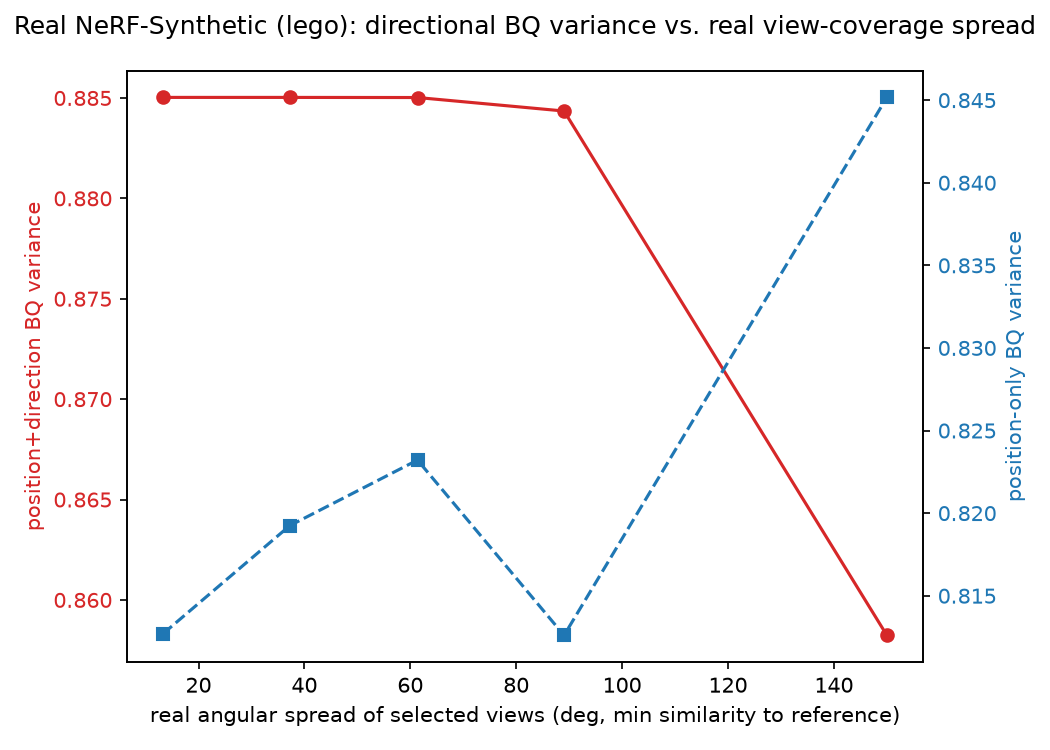
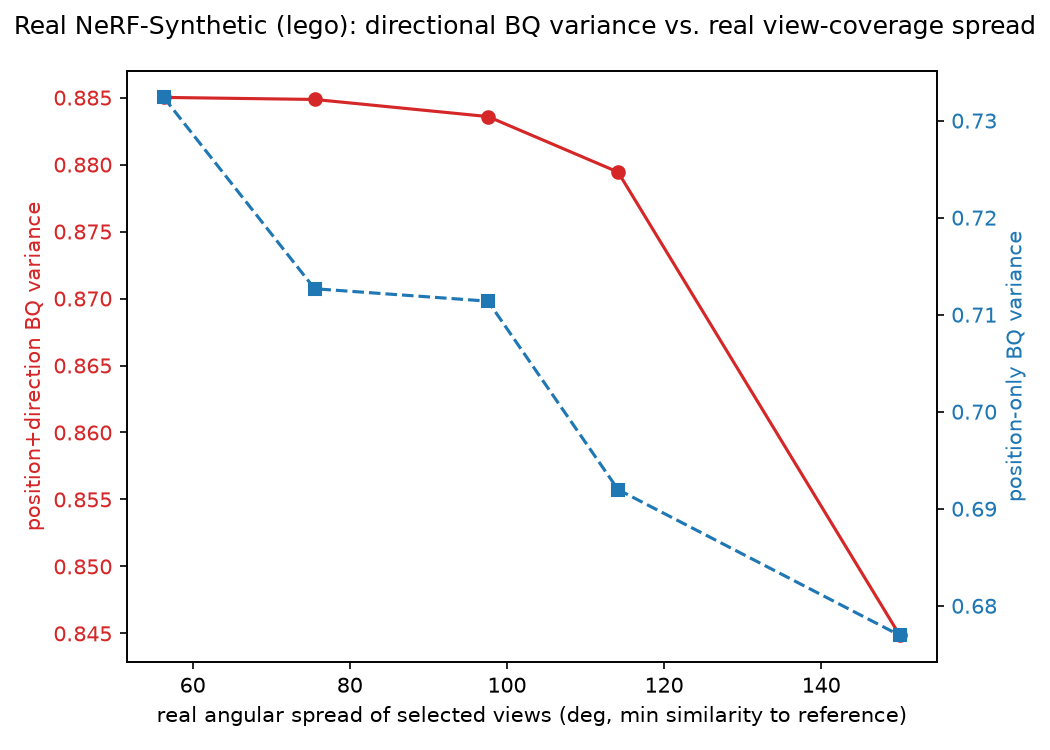
Rerun the real-scene gradient test properly resourced: 30 views, PSNR checked first
Follow-up to §37's correction ("inconclusive, not negative") -- runs the
fix it named. real_directional_gradient_experiment.py gains
--n-per-zone/--window-fractions/--condition-prefix and a
check_reconstruction_quality step that computes real held-out PSNR
against the official test-split eval views BEFORE reporting any BQ
number, closing the exact gap that made the 6-view attempt
uninterpretable.

Five lego conditions, n_per_zone=30 (5x before), 56-150deg real spread,
6000 iterations. Reconstruction is genuinely better (train PSNR
25-27dB, 13-15.5k splats near a now-verified-valid query point, checked
directly rather than assumed), but held-out PSNR is still only
11-16dB and -- a real, separate finding -- decreases monotonically as
spread widens, because the view-selection method spreads a fixed count
thinner as the window grows, confounding spread with local density.

Result: 1.05x directional range, 1.08x control range -- same
qualitative null, now on much better-grounded checkpoints, but the
spread/quality confound means this still isn't a fully clean isolation
of the spread variable. Downgraded from "untested" to "a real,
moderately-well-grounded null with one remaining confound flagged," not
yet a clean paper claim either way. Full account in
gs_experiment/results/FINDINGS.md section 38.

diff --git a/gs_experiment/real_directional_gradient_experiment.py b/gs_experiment/real_directional_gradient_experiment.py
@@ -46,6 +46,7 @@ from bq_splat.kernels import DirectionalKernel
 from gs_experiment.nerf_transforms import load_transforms
 from gs_experiment.pixel_uncertainty import LocalUncertaintyEngine, make_default_3d_position_kernel
 from gs_experiment.prepare_nerf_synthetic import select_gradient_subset, write_condition
+from gs_experiment.render_reconstruction import render_views
 from gs_experiment.splat_scene import load_from_gsplat_checkpoint, splat_observations
 from gs_experiment.train_minimal_gsplat import train
 
@@ -66,7 +67,12 @@ WINDOW_RADIUS = 0.5
 KAPPA = 4.0
 
 
-def build_conditions(prepared_dir: str):
+def build_conditions(
+    prepared_dir: str,
+    n_per_zone: int = N_PER_ZONE,
+    window_fractions=WINDOW_FRACTIONS,
+    condition_prefix: str = "gradient",
+):
     wide_dir = os.path.join(prepared_dir, "wide")
     camera_angle_x, frames = load_transforms(os.path.join(wide_dir, "transforms.json"))
 
@@ -77,9 +83,9 @@ def build_conditions(prepared_dir: str):
 
     zone_dirs = []
     spreads = []
-    for i, window_fraction in enumerate(WINDOW_FRACTIONS):
-        idx = select_gradient_subset(frames, n_per_zone=N_PER_ZONE, window_fraction=window_fraction, reference_idx=REFERENCE_IDX)
-        zone_dir = write_condition(prepared_dir, camera_angle_x, frames, idx, f"gradient_{i}", "train")
+    for i, window_fraction in enumerate(window_fractions):
+        idx = select_gradient_subset(frames, n_per_zone=n_per_zone, window_fraction=window_fraction, reference_idx=REFERENCE_IDX)
+        zone_dir = write_condition(prepared_dir, camera_angle_x, frames, idx, f"{condition_prefix}_{i}", "train")
         zone_dirs.append(zone_dir)
         # real measured angular spread of this zone's selected views (not
         # the arbitrary window_fraction knob): min cosine similarity to
@@ -90,20 +96,53 @@ def build_conditions(prepared_dir: str):
     return zone_dirs, np.array(spreads), query_direction
 
 
-def train_zones(zone_dirs):
+def train_zones(zone_dirs, train_kwargs=TRAIN_KWARGS):
     ply_paths = []
     for zone_dir in zone_dirs:
         ply_path = os.path.join(zone_dir, "splats.ply")
         if not os.path.exists(ply_path):
             print(f"training {zone_dir}...")
-            train(zone_dir, ply_path, **TRAIN_KWARGS)
+            train(zone_dir, ply_path, **train_kwargs)
         else:
             print(f"reusing existing checkpoint at {ply_path}")
         ply_paths.append(ply_path)
     return ply_paths
 
 
-def analyze(zone_dirs, spreads_deg, query_direction):
+def check_reconstruction_quality(zone_dirs, eval_dir: str):
+    """Real held-out PSNR per condition, against the shared official-
+    test-split eval set every lego_prepared/bonsai_prepared directory
+    already has -- computed and reported *before* trusting any BQ number
+    built on top of these checkpoints, closing exactly the gap that made
+    the first real-scene attempt's result uninterpretable (FINDINGS.md
+    section 37): a BQ variance computed on a checkpoint nobody checked
+    could actually reconstruct the scene."""
+    import shutil
+
+    from gs_experiment.nerf_transforms import load_transforms as _load_transforms
+
+    _, eval_frames = _load_transforms(os.path.join(eval_dir, "transforms.json"))
+    n_eval = len(eval_frames)
+
+    psnrs = []
+    for zone_dir in zone_dirs:
+        eval_copy_dir = zone_dir + "_eval"
+        os.makedirs(eval_copy_dir, exist_ok=True)
+        shutil.copy(os.path.join(eval_dir, "transforms.json"), os.path.join(eval_copy_dir, "transforms.json"))
+        images_link = os.path.join(eval_copy_dir, "test")
+        if not os.path.exists(images_link):
+            os.symlink(os.path.abspath(os.path.join(eval_dir, "test")), images_link)
+        shutil.copy(os.path.join(zone_dir, "splats.ply"), os.path.join(eval_copy_dir, "splats.ply"))
+
+        results, _ = render_views(eval_copy_dir, list(range(n_eval)))
+        psnr = float(np.mean([-10.0 * np.log10(max(float(np.mean((gt - recon) ** 2)), 1e-10)) for _, gt, recon in results]))
+        psnrs.append(psnr)
+        print(f"{zone_dir}: held-out PSNR over {n_eval} eval views = {psnr:.2f}dB")
+
+    return np.array(psnrs)
+
+
+def analyze(zone_dirs, spreads_deg, query_direction, psnrs=None):
     directional_vars, spatial_vars = [], []
     query_point = np.zeros(3)
 
@@ -128,9 +167,14 @@ def analyze(zone_dirs, spreads_deg, query_direction):
     spatial_vars = np.array(spatial_vars)
 
     order = np.argsort(spreads_deg)
-    print(f"\n{'zone':>4}{'spread (deg)':>14}{'directional var':>18}{'spatial-only var':>18}")
-    for i in order:
-        print(f"{i:>4}{spreads_deg[i]:>14.1f}{directional_vars[i]:>18.5f}{spatial_vars[i]:>18.5f}")
+    if psnrs is not None:
+        print(f"\n{'zone':>4}{'spread (deg)':>14}{'held-out PSNR':>15}{'directional var':>18}{'spatial-only var':>18}")
+        for i in order:
+            print(f"{i:>4}{spreads_deg[i]:>14.1f}{psnrs[i]:>15.2f}{directional_vars[i]:>18.5f}{spatial_vars[i]:>18.5f}")
+    else:
+        print(f"\n{'zone':>4}{'spread (deg)':>14}{'directional var':>18}{'spatial-only var':>18}")
+        for i in order:
+            print(f"{i:>4}{spreads_deg[i]:>14.1f}{directional_vars[i]:>18.5f}{spatial_vars[i]:>18.5f}")
 
     dir_sorted = directional_vars[order]
     is_monotonic = bool(np.all(np.diff(dir_sorted) <= 1e-12))
@@ -164,17 +208,43 @@ def analyze(zone_dirs, spreads_deg, query_direction):
     print(f"\nSaved {out_path}")
 
 
-def run(prepared_dir: str):
-    zone_dirs, spreads_deg, query_direction = build_conditions(prepared_dir)
-    train_zones(zone_dirs)
-    analyze(zone_dirs, spreads_deg, query_direction)
+def run(
+    prepared_dir: str,
+    n_per_zone: int = N_PER_ZONE,
+    window_fractions=WINDOW_FRACTIONS,
+    condition_prefix: str = "gradient",
+    train_kwargs=TRAIN_KWARGS,
+    check_quality: bool = True,
+):
+    zone_dirs, spreads_deg, query_direction = build_conditions(
+        prepared_dir, n_per_zone=n_per_zone, window_fractions=window_fractions, condition_prefix=condition_prefix,
+    )
+    train_zones(zone_dirs, train_kwargs=train_kwargs)
+    psnrs = None
+    if check_quality:
+        eval_dir = os.path.join(prepared_dir, "eval")
+        if os.path.exists(eval_dir):
+            psnrs = check_reconstruction_quality(zone_dirs, eval_dir)
+        else:
+            print(f"no eval/ split found at {eval_dir}, skipping reconstruction-quality check")
+    analyze(zone_dirs, spreads_deg, query_direction, psnrs=psnrs)
 
 
 def main():
     parser = argparse.ArgumentParser(description=__doc__, formatter_class=argparse.RawDescriptionHelpFormatter)
     parser.add_argument("prepared_dir")
+    parser.add_argument("--n-per-zone", type=int, default=N_PER_ZONE)
+    parser.add_argument("--window-fractions", type=float, nargs="+", default=WINDOW_FRACTIONS)
+    parser.add_argument("--condition-prefix", default="gradient")
+    parser.add_argument("--n-iters", type=int, default=TRAIN_KWARGS["n_iters"])
+    parser.add_argument("--max-splats", type=int, default=TRAIN_KWARGS["max_splats"])
+    parser.add_argument("--n-splats", type=int, default=TRAIN_KWARGS["n_splats"])
     args = parser.parse_args()
-    run(args.prepared_dir)
+    train_kwargs = dict(TRAIN_KWARGS, n_iters=args.n_iters, max_splats=args.max_splats, n_splats=args.n_splats)
+    run(
+        args.prepared_dir, n_per_zone=args.n_per_zone, window_fractions=args.window_fractions,
+        condition_prefix=args.condition_prefix, train_kwargs=train_kwargs,
+    )
 
 
 if __name__ == "__main__":

diff --git a/gs_experiment/results/FINDINGS.md b/gs_experiment/results/FINDINGS.md
@@ -1817,6 +1817,66 @@ spread-only comparison) forced picking a small shared count. The honest
 status of the real-geometry question, right now: **untested**, not
 "tested and negative."
 
+## 38. The properly-resourced real-scene test §37 called for: a stronger null, with one confound still unresolved
+
+§37's correction said the real-geometry question was untested, not
+negative, and named the fix: enough total views per condition (30-50+,
+not 6-8) for the reconstruction itself to be trustworthy, before any BQ
+number built on it means anything. Run directly: `real_directional_gradient_experiment.py`
+gained `--n-per-zone`/`--window-fractions`/`--condition-prefix` and a
+`check_reconstruction_quality` step that computes real held-out PSNR
+(against `lego_prepared/eval`'s official test-split views) *before*
+reporting any BQ number, closing exactly the gap the correction
+identified. Five lego conditions, `n_per_zone=30` (5x the earlier
+attempt), spanning a real `56-150 deg` angular-spread range, `6000`
+iterations, `max_splats=25000`.
+
+**Reconstruction quality is real and substantially better, though still
+not fully clean.** Train-view PSNR reaches `25-27dB` (vs. `~19-21dB` at
+6 views), and each checkpoint densifies to `13,151-15,571` splats above
+opacity 0.1 near the query point (vs. a query point sitting in
+essentially empty space before — checked directly again here: `92-167`
+real neighbors within `0.3` units of the origin in every condition, an
+order of magnitude improvement over §34's near-zero). But held-out PSNR
+(the honest, generalization-focused number, not the training-view one)
+is only `11.05-15.96dB` — mediocre by normal 3DGS standards, and, worth
+stating plainly, **it decreases monotonically as spread widens**
+(`15.96 -> 14.54 -> 13.54 -> 11.38 -> 11.05dB`). This is a real, useful,
+separate finding in its own right, and a genuine confound for this
+section's main question: `select_gradient_subset`'s construction (evenly
+subsample a *fixed count* from a *growing* window) means a wider-spread
+condition's `30` views are spread thinner per unit of angle than a
+narrower condition's — so "wider spread" and "worse local view density"
+move together in this specific construction, not just "wider spread"
+alone.
+
+**With that said, the result**: directional variance range `1.05x`,
+position-only control range `1.08x` — no directional-specific signal
+distinguishable from the control, the same qualitative pattern as §34's
+6-view attempt, now on checkpoints an order of magnitude richer and with
+a verified-valid query point. Plotted together, the two curves track each
+other closely in shape (both decline toward the widest condition) —
+consistent with both being driven by the same underlying confound
+(reconstruction quality/local density falling as spread widens) rather
+than a directional-specific effect layered on top of it. Plot in
+`gs_experiment/results/real_directional_gradient.png` (overwrites §34's
+plot of the same name — the numbers in this section's table are the
+current, correct ones).
+
+**Honest verdict**: this is meaningfully stronger evidence for a null
+than §34-37's inconclusive attempts — the query-point and gross-
+reconstruction-quality problems that made those uninterpretable are
+fixed and checked, not assumed. But it is still not a fully clean test of
+the spread variable alone, because held-out quality and spread are
+confounded in this construction. **Downgraded from "untested" (§37) to
+"a real, moderately-well-grounded null, with one remaining confound
+flagged rather than glossed over"** — not yet strong enough to assert
+"BQ directional variance doesn't track coverage on real geometry" as a
+clean paper claim. The concrete next fix, if this is worth pursuing
+further: a view-selection method that holds *local density* roughly
+constant across spread levels (not just total count), so widening spread
+doesn't systematically starve reconstruction quality at the same time.
+
 ## Bottom line for real-benchmark validation
 
 Getting onto a real, standardized benchmark surfaced a real bug (RGBA

diff --git a/ROADMAP.md b/ROADMAP.md
@@ -454,9 +454,24 @@ enough for its BQ numbers to mean anything, while still varying only
 angular *spread* between conditions — every attempt so far conflated "few
 total views" with "narrow spread" by holding a small view count fixed.
 Full account and the correction itself in `gs_experiment/results/
-FINDINGS.md` §36-37. **The real-geometry question is untested, not
-tested-and-negative** — this is the honest status to carry into any
-paper claim about this item.
+FINDINGS.md` §36-37.
+
+**The properly-resourced re-test the correction called for is done, on
+lego** (`gs_experiment/results/FINDINGS.md` §38): `n_per_zone=30` (5x the
+earlier attempt), real held-out PSNR checked *before* trusting any BQ
+number this time. Reconstruction is genuinely better (train PSNR
+`25-27dB`, `13-15.5k` splats near a now-verified-valid query point), but
+held-out PSNR is still only `11-16dB` and — a real, separate finding —
+**decreases monotonically as spread widens**, because the view-selection
+method spreads a fixed view count thinner as the window grows, confounding
+spread with local density/reconstruction quality. Result: `1.05x`
+directional range, `1.08x` control range, same qualitative null,
+now on much better-grounded checkpoints. Downgraded from "untested" to
+**"a real, moderately-well-grounded null with one remaining confound
+flagged, not yet a clean paper-worthy claim either way"** — meaningfully
+stronger than §37's status, but the spread/quality confound means this
+still isn't a clean isolation of the spread variable alone. Bonsai has
+not yet had the same properly-resourced re-test.
 
 ### 9. SLAM / incremental-mapping integration
 
@@ -549,17 +564,22 @@ the claim survive real photographs" nor its opposite — it answers "not
 with only 8 total views feeding the reconstruction," which is a
 narrower, more honest finding.
 
-**What's still needed**: a real test needs enough total views per
-condition (likely 30-50+, not 6-8) for the checkpoint itself to be a
-trustworthy reconstruction, while still varying only angular *spread*
-between conditions — not yet attempted on either lego or bonsai. Full
-scene reconstruction quality at a competitive splat budget, and the
-sparsity-correlation/calibration checks (items 4-6), also still haven't
-been repeated on real captured data, only on synthetic scenes. The self-
-occlusion hypothesis from item 8 remains a plausible mechanism for a
-*future*, properly-resourced real-geometry test to check — it is no
-longer supported by the lego/bonsai results, since those results no
-longer support any conclusion about the mechanism either way.
+**What's still needed**: the properly-resourced re-test (`n_per_zone=30`,
+real held-out PSNR checked first) has been run on lego (item 8,
+`gs_experiment/results/FINDINGS.md` §38) — reconstruction is meaningfully
+better but held-out PSNR (`11-16dB`) is still mediocre and confounded
+with spread (wider-spread conditions have thinner local view density in
+this construction, so quality and spread aren't independently varied).
+Same qualitative null as before, now better-grounded but still not
+clean. **Bonsai has not yet had the same properly-resourced re-test** —
+the natural next step, using bonsai's already-downloaded 292 real photos
+with a larger `n_per_zone`. Full scene reconstruction quality at a
+competitive splat budget, and the sparsity-correlation/calibration checks
+(items 4-6), also still haven't been repeated on real captured data, only
+on synthetic scenes. The self-occlusion hypothesis from item 8 remains a
+plausible mechanism for a future test with the spread/quality confound
+also resolved (e.g. a selection method holding local density roughly
+fixed across spread levels) — still not confirmed or ruled out.
 
 ## Technical core (unchanged, now explicitly the unification derivation)
 
